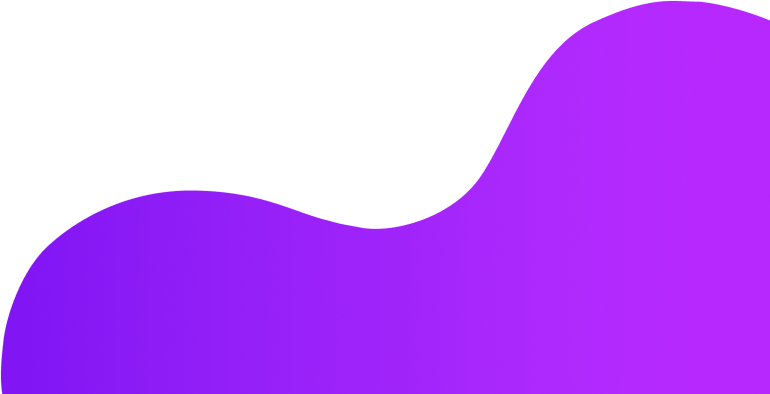
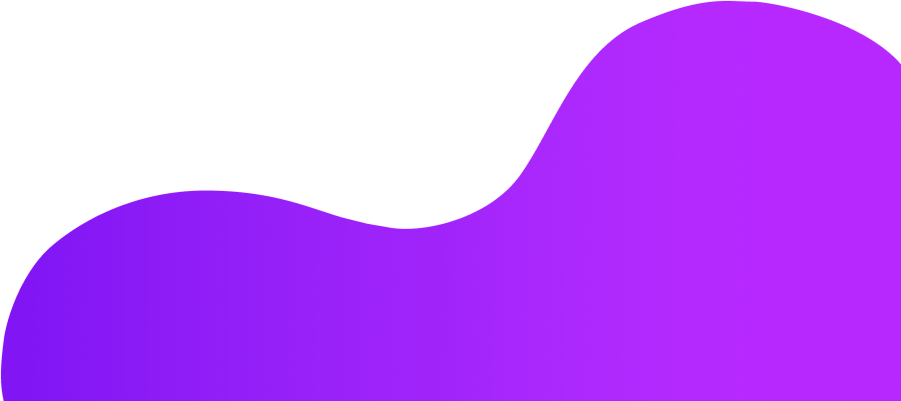
added css part for the blob img

diff --git a/css/main.css b/css/main.css
@@ -1,5 +1,11 @@
 /* Main CSS file for entire Website */
 
+*,::before,::after{
+    margin: 0;
+    padding: 0;
+    box-sizing: border-box;
+}
+
 .links{
     margin-top: 40vh;
     text-align: center;
@@ -30,7 +36,7 @@
     position: fixed;
     bottom: 0;
     right: 0;
-    width: 50vw;
+    width: 60%;
     min-width: 500px;
     z-index:-1;
 
@@ -169,11 +175,15 @@
     color: #DB8EFF;
 }
 
+.arrow{
+    position: relative;
+}
+
 .arrow-icon{
     color: #fff;
     position: absolute;
-    top: 38.5rem;
-    right: 43.5rem; 
+    top: 38rem;
+    left: 50%; 
     transform: scale(2.5);
   }
 
